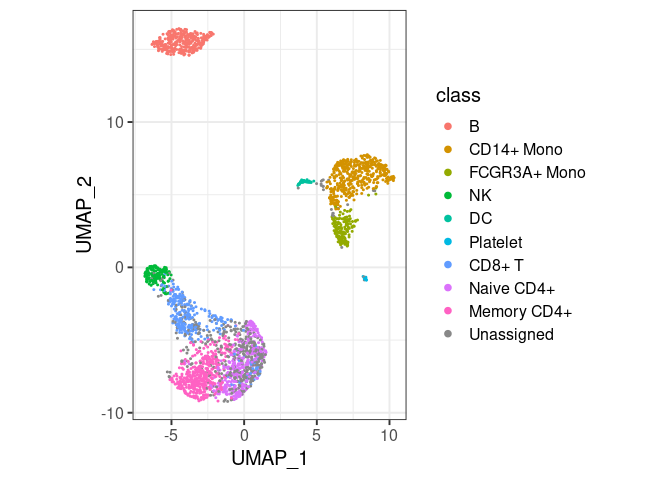
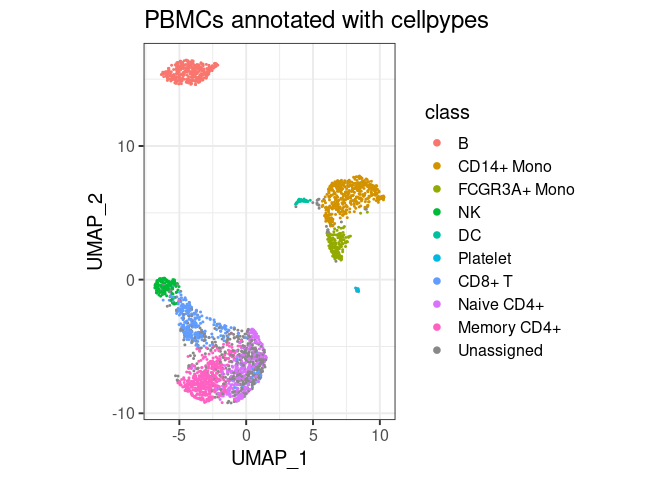
readme updates

diff --git a/README.md b/README.md
@@ -9,7 +9,6 @@ cellpypes – Cell type pipes for R
     -   [Pipe into DESeq2 for differential
         expression](#pipe-into-deseq2-for-differential-expression)
     -   [Pseudobulk matrix](#pseudobulk-matrix)
--   [notes to myself](#notes-to-myself)
 
 <!-- README.md is generated from README.Rmd. Please edit that file -->
 
@@ -49,7 +48,6 @@ seurat_object %>%
   plot_last()
 ```
 
-<img src="man/figures/README-quickstart-1.png" width="100%" />
 ![pbmc2700](man/figures/README-pbmc_cd3e.png)
 
 As we can see, the chosen threshold of `3.5e-4` results in good
@@ -90,12 +88,10 @@ pype <- pype %>%
   rule("Naive CD4+",  "CCR7",    ">", 1.5e-4, parent="CD4+ T") %>%
   rule("Memory CD4+",  "S100A4", ">", 13e-4,  parent="CD4+ T")
 
-pype %>% plot_classes
+plot_classes(pype)+ggtitle("PBMCs annotated with cellpypes")
 ```
 
 <img src="man/figures/README-pbmc_rules-1.png" width="100%" />
-
-![pbmc2700](man/figures/README-pbmc2700.jpg)
 
 A few observations:
 
@@ -146,7 +142,8 @@ correctly and fail to control the false-discovery rate.
 All you need is a cellpypes object and a *data.frame* with meta data
 (patient, treatment, etc.). To demonstrate, let’s make up patients and
 treatment for the pbmc Seurat object (generate it yourself by following
-):
+[this
+tutorial](https://satijalab.org/seurat/articles/pbmc3k_tutorial.html),
 
 ``` r
 # This dummy example again uses the pbmc object from the Seurat tutorial:
@@ -161,12 +158,12 @@ pbmc_meta <- data.frame(
 rownames(pbmc_meta) <- colnames(pbmc)
 head(pbmc_meta)
 #>                   patient treatment
-#> AAACATACAACCAC-1 patient5   treated
-#> AAACATTGAGCTAC-1 patient1   treated
-#> AAACATTGATCAGC-1 patient2   control
-#> AAACCGTGCTTCCG-1 patient4   control
-#> AAACCGTGTATGCG-1 patient4   control
-#> AAACGCACTGGTAC-1 patient3   control
+#> AAACATACAACCAC-1 patient4   treated
+#> AAACATTGAGCTAC-1 patient6   treated
+#> AAACATTGATCAGC-1 patient6   treated
+#> AAACCGTGCTTCCG-1 patient3   control
+#> AAACCGTGTATGCG-1 patient1   treated
+#> AAACGCACTGGTAC-1 patient6   control
 ```
 
 With cellpypes, you can directly pipe a given cell type into DESeq2 to
@@ -187,12 +184,12 @@ cells randomly to treated/control.
 ## Pseudobulk matrix
 
 If you prefer to compute the full pseudobulk matrix with all cell types,
-here is a fully-reproducible minimal example. The crucial command is ,
-where counts and meta\_df can be easily obtained from a seurat object
-like this:
+here is a fully-reproducible minimal example. The crucial command is
+`pseudobulk(counts, pseudobulk_id(meta_df))`, where counts and meta\_df
+can be easily obtained from a seurat object like this:
 
--   counts could be
--   meta\_df could be selected columns from <seurat@meta.data>
+-   counts could be `seurat@assays$RNA@counts`
+-   meta\_df could be selected columns from `seurat@meta.data`
 
 For a Seurat-independent demonstration, I will simulate raw UMI counts
 and associated meta data:
@@ -213,12 +210,12 @@ meta_df <- data.frame(
 )
 head(meta_df)
 #>    patient condition celltype
-#> 1 patient4   treated    Tcell
-#> 2 patient2   control    Tcell
-#> 3 patient3   treated    Bcell
-#> 4 patient5   treated    Tcell
-#> 5 patient1   control    Tcell
-#> 6 patient1   control    Bcell
+#> 1 patient1   treated    Bcell
+#> 2 patient4   treated    Bcell
+#> 3 patient3   control    Tcell
+#> 4 patient3   treated    Tcell
+#> 5 patient1   control    Bcell
+#> 6 patient5   treated    Tcell
 ```
 
 We aggregate single-cell counts to pseudobulks, and single-cell meta
@@ -244,12 +241,3 @@ dds <- DESeqDataSetFromMatrix(countData = bulks,
 dds <- DESeq(dds)
 results(dds)
 ```
-
-# notes to myself
-
--   execute but hide code: echo=FALSE
--   You’ll still need to render `README.Rmd` regularly, to keep
-    `README.md` up-to-date. `devtools::build_readme()` is handy for
-    this. You could also use GitHub Actions to re-render `README.Rmd`
-    every time you push. An example workflow can be found here:
-    <https://github.com/r-lib/actions/tree/master/examples>.
